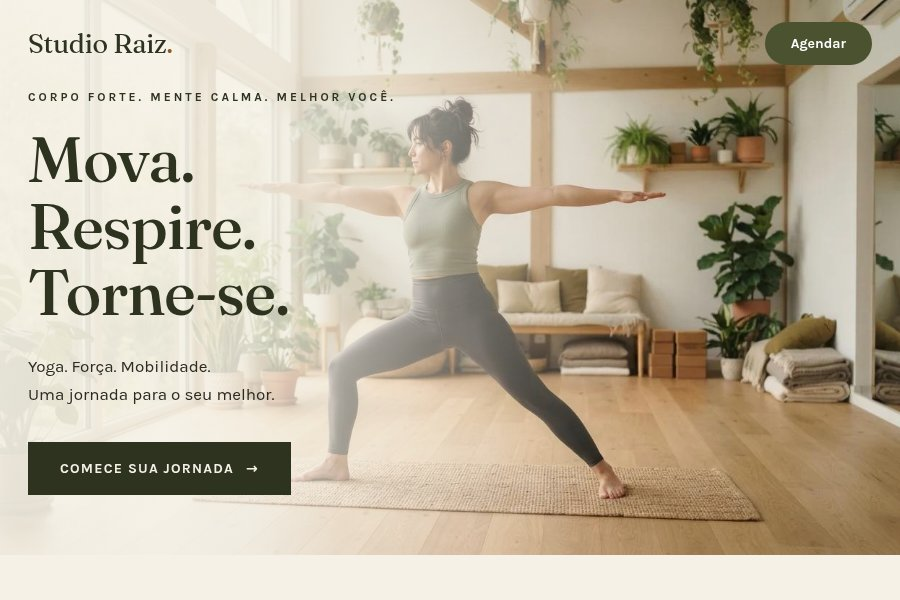
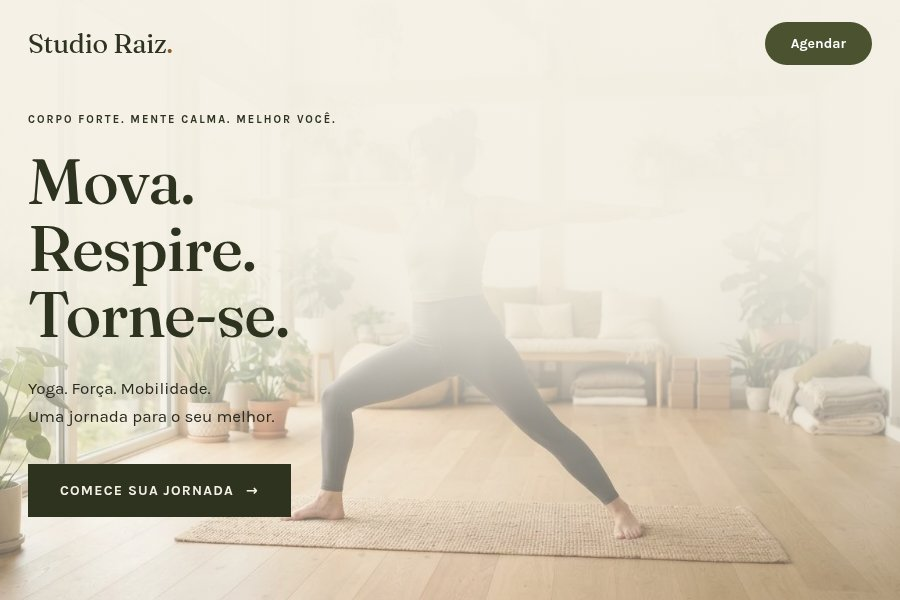
fix(vitrine): hero mobile da Raiz com gradiente creme forte atras do texto (kicker e subtitulo legiveis, sem palavra sumindo) e foto deslocada para a direita

diff --git a/src/components/models/YogaFold.tsx b/src/components/models/YogaFold.tsx
@@ -58,6 +58,10 @@ export function YogaFold({ client }: { client?: { name?: string; whatsapp?: stri
           .yga .nav-c{display:none!important}
           .yga .sobre-foto{min-height:380px!important}
           .yga .hero-tt{font-size:clamp(44px,13vw,64px)!important}
+          .yga .hero-sec{min-height:100svh!important}
+          .yga .hero-img{object-position:60% 72%!important}
+          .yga .hero-ov{background:linear-gradient(180deg, ${CRM}fc 0%, ${CRM}f5 40%, ${CRM}d9 55%, ${CRM}8c 70%, ${CRM}4d 100%)!important}
+          .yga .hero-k{font-size:11px!important;letter-spacing:2px!important}
         }
         @media (max-width:560px){
           .yga .g4y{grid-template-columns:1fr!important}
@@ -78,11 +82,11 @@ export function YogaFold({ client }: { client?: { name?: string; whatsapp?: stri
       </header>
 
       {/* HERO full-bleed */}
-      <section style={{ position: "relative", minHeight: "92vh", display: "flex", alignItems: "center", overflow: "hidden" }}>
-        <img src="/raiz-hero.jpg" alt={`Prática de yoga no ${brand}`} style={{ position: "absolute", inset: 0, width: "100%", height: "100%", objectFit: "cover", objectPosition: "70% 30%" }} />
-        <div style={{ position: "absolute", inset: 0, background: `linear-gradient(100deg, ${CRM}f2 0%, ${CRM}d9 30%, ${CRM}66 52%, transparent 70%)` }} />
+      <section className="hero-sec" style={{ position: "relative", minHeight: "92vh", display: "flex", alignItems: "center", overflow: "hidden" }}>
+        <img className="hero-img" src="/raiz-hero.jpg" alt={`Prática de yoga no ${brand}`} style={{ position: "absolute", inset: 0, width: "100%", height: "100%", objectFit: "cover", objectPosition: "70% 30%" }} />
+        <div className="hero-ov" style={{ position: "absolute", inset: 0, background: `linear-gradient(100deg, ${CRM}f2 0%, ${CRM}d9 30%, ${CRM}66 52%, transparent 70%)` }} />
         <div className="wrap" style={{ position: "relative", zIndex: 2, width: "100%", paddingTop: 90, paddingBottom: 60 }}>
-          <p style={{ margin: "0 0 22px", fontWeight: 700, fontSize: 12, letterSpacing: 3, textTransform: "uppercase", color: DK }}>Corpo forte. Mente calma. Melhor você.</p>
+          <p className="hero-k" style={{ margin: "0 0 22px", fontWeight: 700, fontSize: 12, letterSpacing: 3, textTransform: "uppercase", color: DK }}>Corpo forte. Mente calma. Melhor você.</p>
           <h1 className="hero-tt" style={{ margin: 0, fontSize: "clamp(54px,7.2vw,102px)", color: DK }}>
             Mova.<br />Respire.<br />Torne-se.
           </h1>
